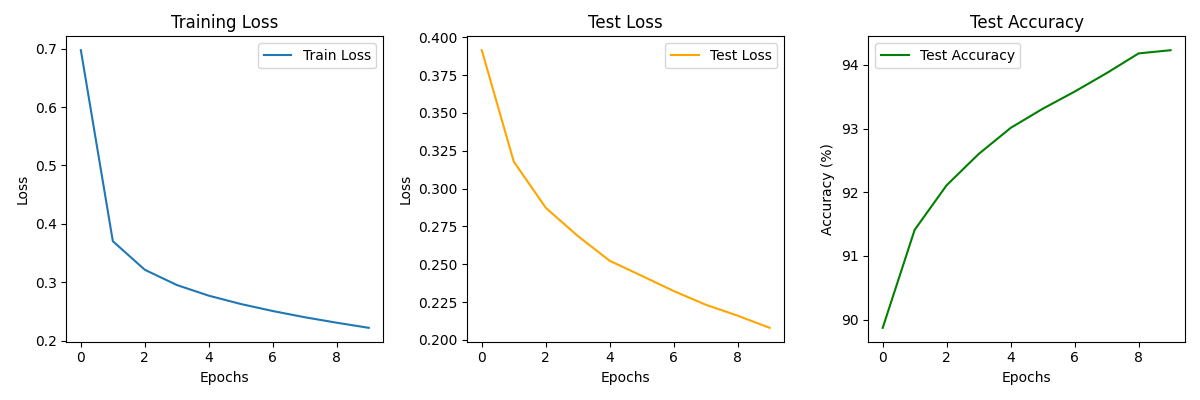
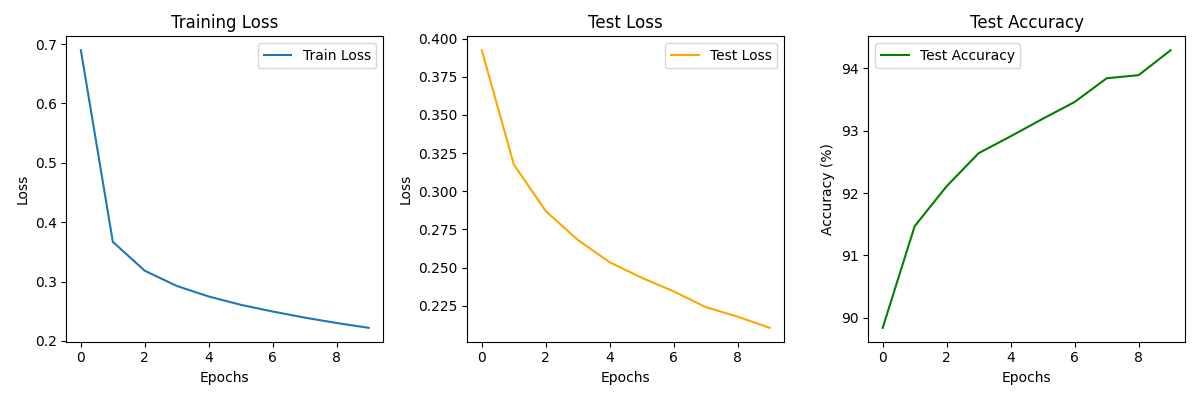
confusion matrix and script rename, ignore netconfig for now

diff --git a/src/cnn_trial.py b/src/cnn_trial.py
@@ -84,9 +84,13 @@ def train_model(model, train_loader, criterion, optimizer, num_epochs=5):
 if __name__ == "__main__":
     # Create the model
     model = make_model()
+    print("MODEL SUMMARY:")
     print(model)
+    
+    print("********************************************")
+    print("TRAINING MODEL - MNIST DATASET")
+    print("********************************************")
 
-    print("TRAINING MODEL - MNIST DATASET \n ************************************\n")
 
     # Load data
     train_loader, test_loader = load_data(batch_size=64)
@@ -98,5 +102,5 @@ if __name__ == "__main__":
     # Train the model
     train_model(model, train_loader, criterion, optimizer, num_epochs=5)
 
-    
+
 